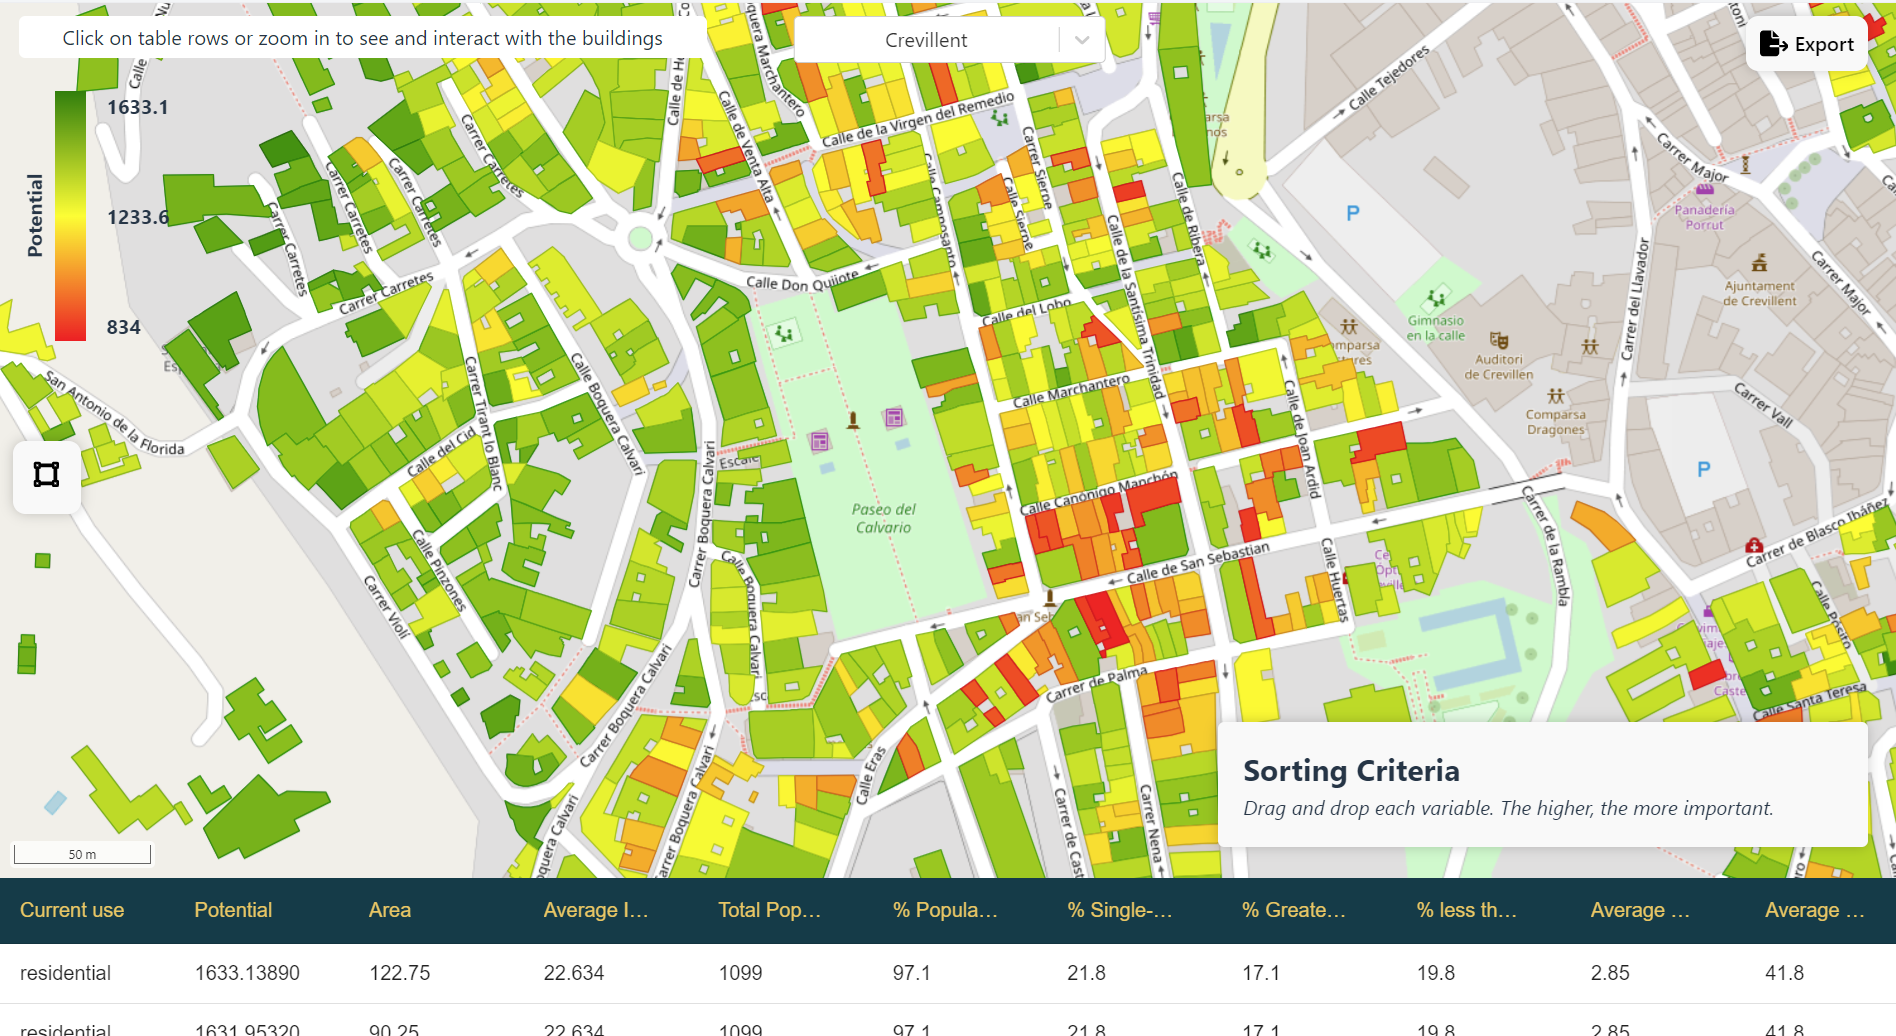
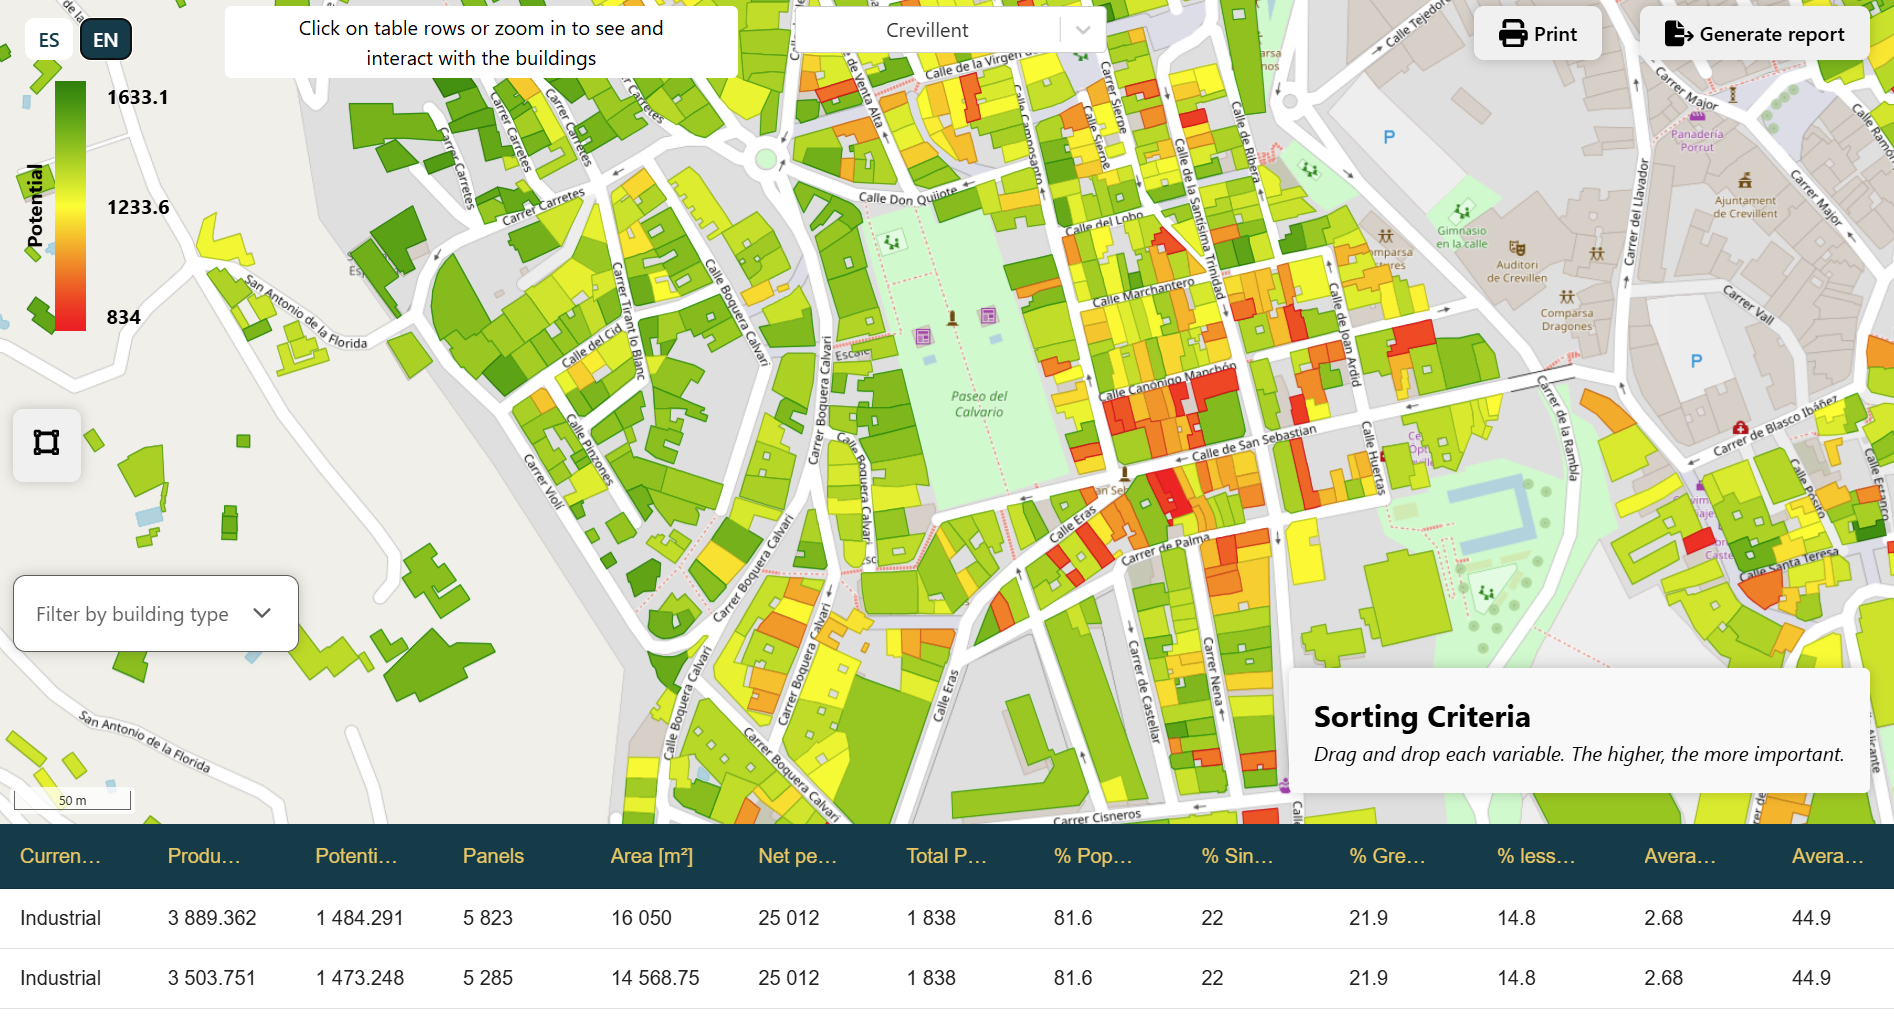
Updates LEC documentation with the new functionalities

diff --git a/docs/tools-and-services/lec.md b/docs/tools-and-services/lec.md
@@ -19,7 +19,7 @@ The tool is designed to solve the complex problem of determining suitable areas 
 
 By enabling the creation of LECs, the tool contributes to a more sustainable energy ecosystem, supporting decarbonization efforts and the wider adoption of renewable energy. It helps streamline energy management, making energy production and consumption more efficient within communities. Users who invest time in learning and using this tool gain the ability to identify optimal locations for LECs, contributing to environmental sustainability and community engagement, while simplifying a typically complex and data-intensive process.
 
-The tool is currently accessible at the following URL: [https://lec.moderate.cloud/](https://lec.moderate.cloud/)
+The tool is currently accessible at the following URL: [https://lec.staging.moderate.cloud/](https://lec.staging.moderate.cloud/)
 
 ## User Guide
 
@@ -27,7 +27,7 @@ The main view of the web app shows a map of a country, currently Spain, with all
 
 <figure markdown="span">
   ![Main view of the LEC tool](../imgs/lec-tool/lec-main-view.png){ width="800" }
-  <figcaption>First look of the tool. Each polygon represents a municipality in Spain.</figcaption>
+  <figcaption>An initial view of the tool, where each polygon represents a municipality in Spain. Only the blue polygons contain data.</figcaption>
 </figure>
 
 !!! warning "Currently, only the municipality of Crevillent contains building data."
@@ -78,7 +78,7 @@ The following image illustrates these functionalities:
 
 As mentioned before, the default sorting is by solar potential radiation. The user can change the order of the table by clicking on the column headers. For more complex sorting, the user can click the "Sorting criteria" box to unfold the advanced sorting options.
 
-Inside this panel, the user can drag each variable to the desired position. The order of the variables determines the importance. Thus, each variable is given a weight, and the buildings will be sorted by the weighted sum of the variables.
+As shown in the image below, the default sorting criterion is 'Total Production.' However, within this panel, users can select any relevant variable, drag it to the desired position, and reorder them. The position of each variable indicates its importance, with higher positions representing greater significance. Each variable is assigned a weight, and the buildings are sorted based on the weighted sum of these variables.
 
 <figure markdown="span">
   ![Sorting criteria panel](../imgs/lec-tool/lec-sort-criteria-panel.png){ width="460" }
@@ -87,7 +87,7 @@ Inside this panel, the user can drag each variable to the desired position. The 
 
 After the sorting criteria are defined, the user can click the button to apply the new sorting to the table below.
 
-### Filtering Buildings
+### Filtering Buildings by area
 
 One of the key features of the tool is the filtering of buildings. From all the available buildings, the user can select a subset by using the draw mode.
 
@@ -104,15 +104,27 @@ Consequently, the table will also display only the buildings within the polygon,
 
 To exit the drawing mode, the user can click the draw button again. A button at the bottom of the map allows the user to reset the filter and display all buildings again.
 
+### Filtering Buildings by type
+
+Users can filter buildings by type using the dropdown menu located beneath the drawing mode button. This menu allows the selection of one or more building types, such as residential, commercial, industrial, and more. The selected types will be highlighted in the dropdown menu.
+
+Both filtering options will affect the table, map, and report generation, ensuring that users can focus on specific building characteristics.
+
 ### Report Generation
 
 The tool allows users to generate a report detailing the characteristics of the buildings, along with additional data and a brief analysis of the selected municipality and the filtered buildings.
 
-To generate the report and save it to their computer, users can click the "Generate report" button. In a few seconds, the report will be generated and downloaded locally.
+To generate the report and save it to their computer, users can click the "Generate report" button in the top-right corner of the screen. The report will be generated and automatically downloaded within a few seconds.
 
 !!! info "About the report generation"
 
-    This feature is still under development, so the generated report is not yet fully complete.
+    This feature is still in its early stages, so the generated report may not be fully complete.
+
+### Saving or Printing the Current View
+
+The tool allows users to save or print the current view, which includes both the table and the map. This is useful for sharing information or keeping a record of the analysis.
+
+To save or print the current view, users can click the "Print" button next to the report button. This will generate a document that includes both the table and map views in their current state.
 
 ## References
 
